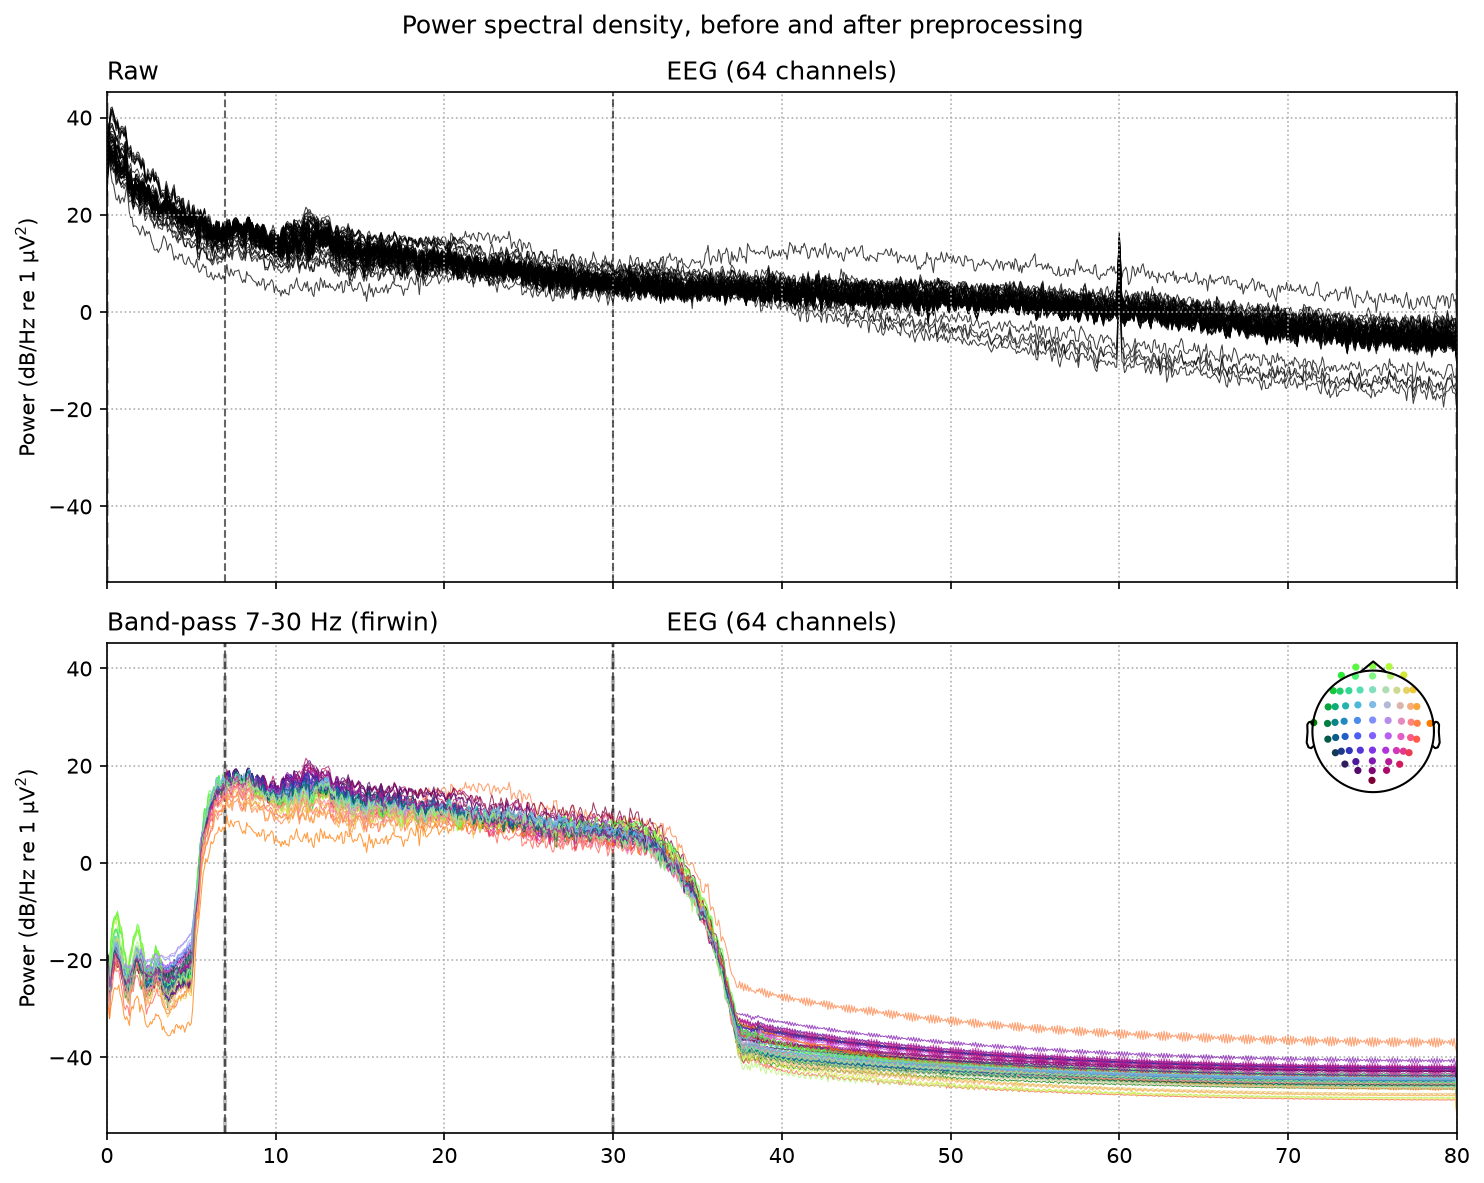
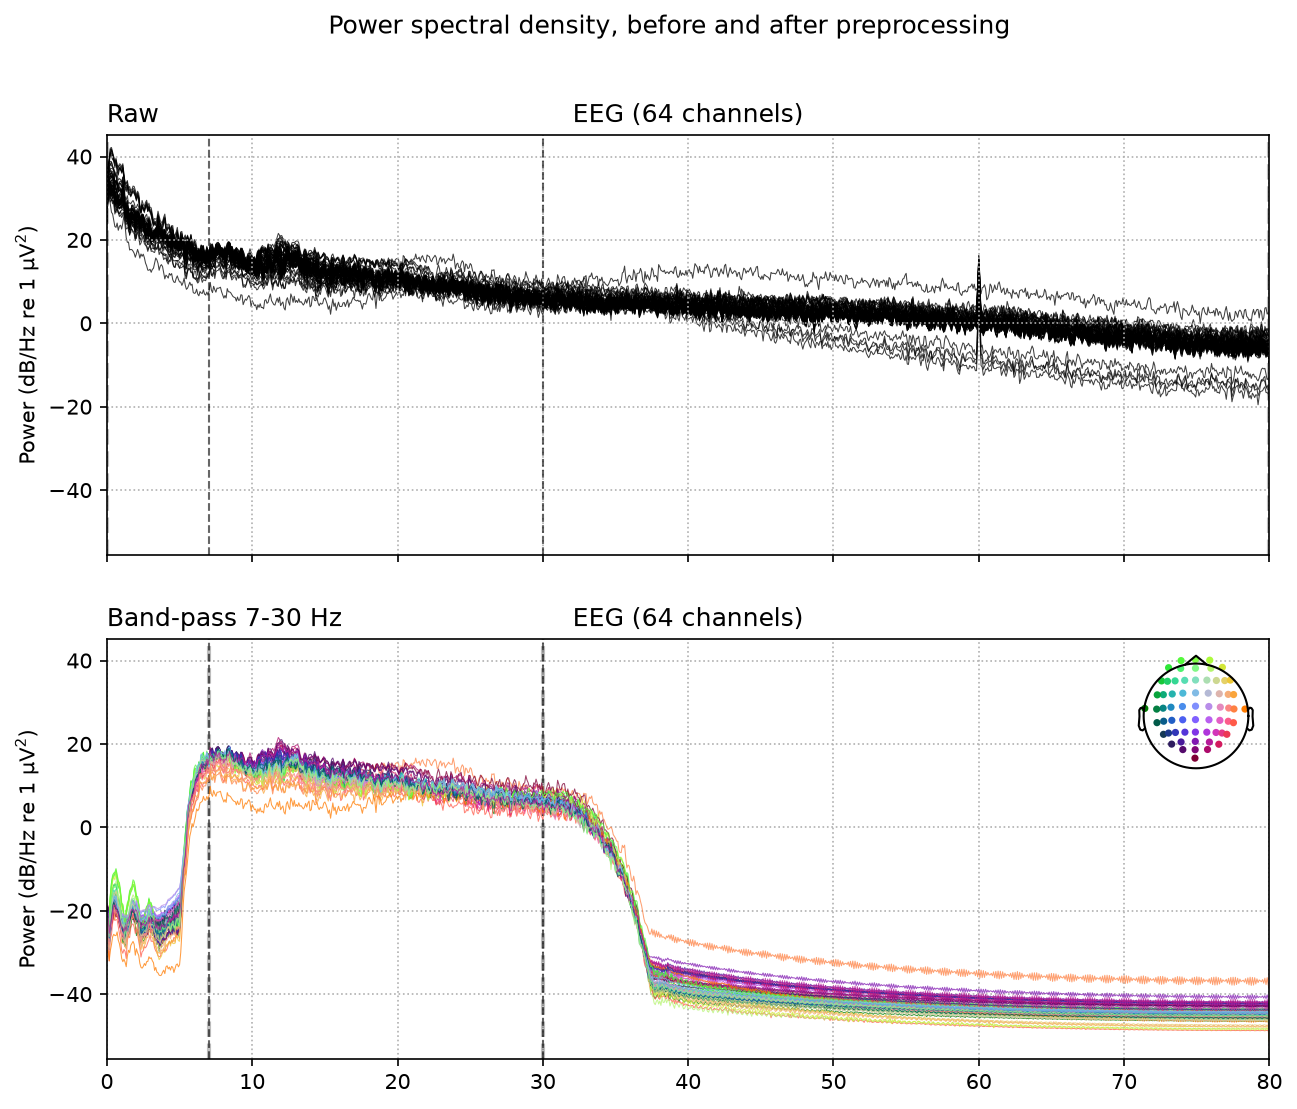
chore(visualise): dropped topomap plan

Changed region(s): [[0.0, 0.0, 0.9869, 0.9811]]

diff --git a/visualise.py b/visualise.py
@@ -14,6 +14,7 @@ import mne
 from src.data import DEFAULT, PreprocConfig, load_raw, preprocess
 from src.experiments import runs_for
 
+
 ROOT = Path(__file__).resolve().parent
 FIG_DIR = ROOT / "figs"
 
@@ -107,8 +108,7 @@ def plot_psd_comparison(
     panels = (
         (axes[0], raw, "Raw"),
         (axes[1], filtered,
-         f"Band-pass {config.l_freq:g}-{config.h_freq:g} Hz "
-         f"({config.fir_design})"),
+         f"Band-pass {config.l_freq:g}-{config.h_freq:g} Hz"),
     )
 
     for ax, data, title in panels:
@@ -123,7 +123,6 @@ def plot_psd_comparison(
         ax.set_ylim(lo, hi)
 
     fig.suptitle("Power spectral density, before and after preprocessing")
-    fig.tight_layout()
     return fig
 
 

diff --git a/src/csp.py b/src/csp.py
@@ -39,7 +39,7 @@ class MyCSP(BaseEstimator, TransformerMixin):
         The two class labels, sorted ascending. Leading filters maximise
         variance for ``classes_[0]``.
     patterns_ : ndarray, shape (n_channels, n_channels)
-        Spatial patterns as rows. Plot these, not the filters, as topomaps.
+        Spatial patterns as rows. Not used.
     """
 
     def __init__(self,
